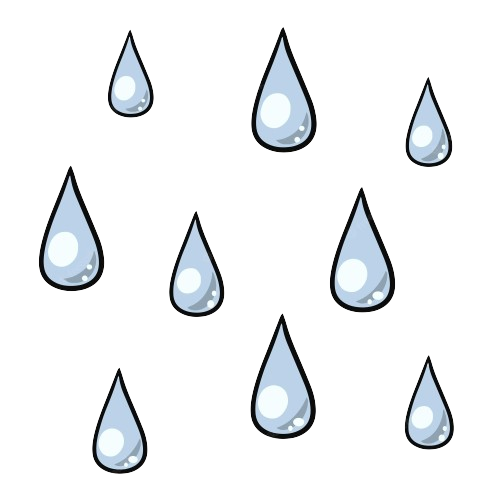
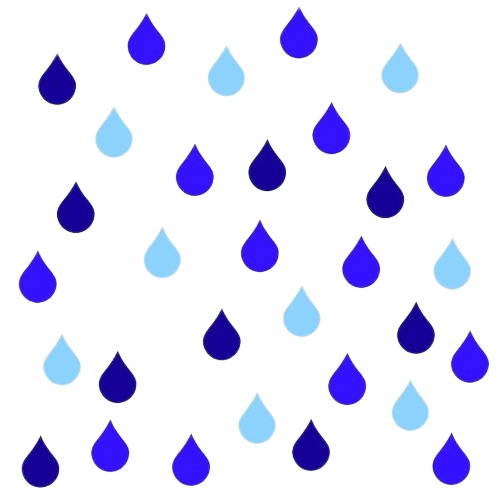
en procesoo

diff --git a/Dia9/styles.css b/Dia9/styles.css
@@ -1,46 +1,89 @@
 
-.paisaje{
-    background-image: url(img/fondo_paisaje.jpg);
-    background-size: cover;
-    width: 60vw;
-    height: 40vw;
+#fondo{
     margin: auto;
+    background-image: url(img/paisaje.jpg);
+    background-size: cover;
+    width: 90vw;
+    height: 45vw;
 }
-.sol{
-    width: 9vw;
-    height: 7vw;
-    margin-left: 40vw;
-    margin-top: 3vw;
-    opacity: 50%;
-    animation-name: solesito;
 
-    
-}
-.nube{
-    width: 15vw;
-    height: 5vw;
-    margin-left: 50vw;
-    margin-top: -6vw;          
-    animation-name: nubecita;
+
+.sol{
+    width: 17vw;
+    height: 15vw;
+    margin-left: 60vw;
+    margin-top: 5vw;
+    animation-name: sun;
     animation-duration: 15s;
     animation-iteration-count: infinite;
 }
-@keyframes nubecita{
-    50%{margin-left: -35vw;}
-    80%{margin-left: -35vw;}
-    100%{margin-left: -100vw;}
-
+@keyframes sun{
+    0% {
+        opacity: 50% }
+    75%{
+        opacity: 75%}
+    100%{
+        opacity: 0;}
+}
+.nube{
+    width: 25vw;
+    height: 17vw;
+    margin-left: 70vw;
+    margin-top: -14vw;
+    animation-name: cloud;
+    animation-duration: 15s;
+    animation-iteration-count: infinite;
+}
+@keyframes cloud{
+    35%{margin-left: 23vw;}
+    80%{margin-left: -60vw;}
+    100%{margin-left: -120vw;}
 }
 .lluvia{
-    margin-top: -30vw;
-    margin-left: 37vw;
-    animation-name: gotas;
-    animation-duration: 20s;
+    overflow: hidden;
+    width: 15vw;
+    height: 20vw;
+    margin-left: 25vw;
+    margin-top: -38vw;
+    animation-name: drop;
+    animation-duration: 10s;
     animation-iteration-count: infinite;
-    
 }
-@keyframes gotas{
-    50%{margin-top: 140%;}
-    80%{margin-top: 140%;}
-    100%{margin-top: 140%;}
+@keyframes drop{
+    40%{margin-top: 50%;}
+    80%{margin-top: 50%;}
+    100%{margin-top: 50%;}
+}
+.florecita{
+    position: absolute;
+    width: 12vw;
+    height: 10vw;
+}
+#flor{
+    display: flex;
+    justify-content: center;
+    margin-left: 25.5vw;
+    margin-top: -8vw;
+    width: 6vw;
+    height: 8vw;
+}
+#imgflor{
+    margin-top: 8vw;
+    width: 0%;
+    height: 0%;
+    animation-name: flor;
+    animation-duration: 14s;
+    animation-iteration-count: infinite;
+}
+@keyframes flor{
+    80%{
+        width: 0%;
+        height: 0%;
+        margin-top: 8vw;
+    }
+    100%{
+        width: 100%;
+        height: 100%;
+        margin-top: 0vw;
+    }
 }

diff --git a/Dia9/index.html b/Dia9/index.html
@@ -7,12 +7,17 @@
     <link rel="stylesheet" href="styles.css">
 </head>
 <body>
-    <div class="paisaje">
-        <img class="sol" src="img/sol-removebg-preview.png" alt="sol solecito">
-        <img class="nube" src="img/nubecita-removebg-preview.png" alt="">
+    <div id="fondo">
+        <img class="sol" src="img/sol-removebg-preview.png" alt="Sol solecito">
+        <img class="nube" src="img/nube-removebg-preview.png" alt="nubecita oscura">
     </div>
     <div class="lluvia">
-        <img  src="img/goticas-removebg-preview.png" >
+        <img src="img/lluvia-removebg-preview.png">
     </div>
+    <div id="flor">
+        <img id="imgflor" src="img/flor-removebg-preview.png" >
+    </div>
+    
+    
 </body>
 </html>
